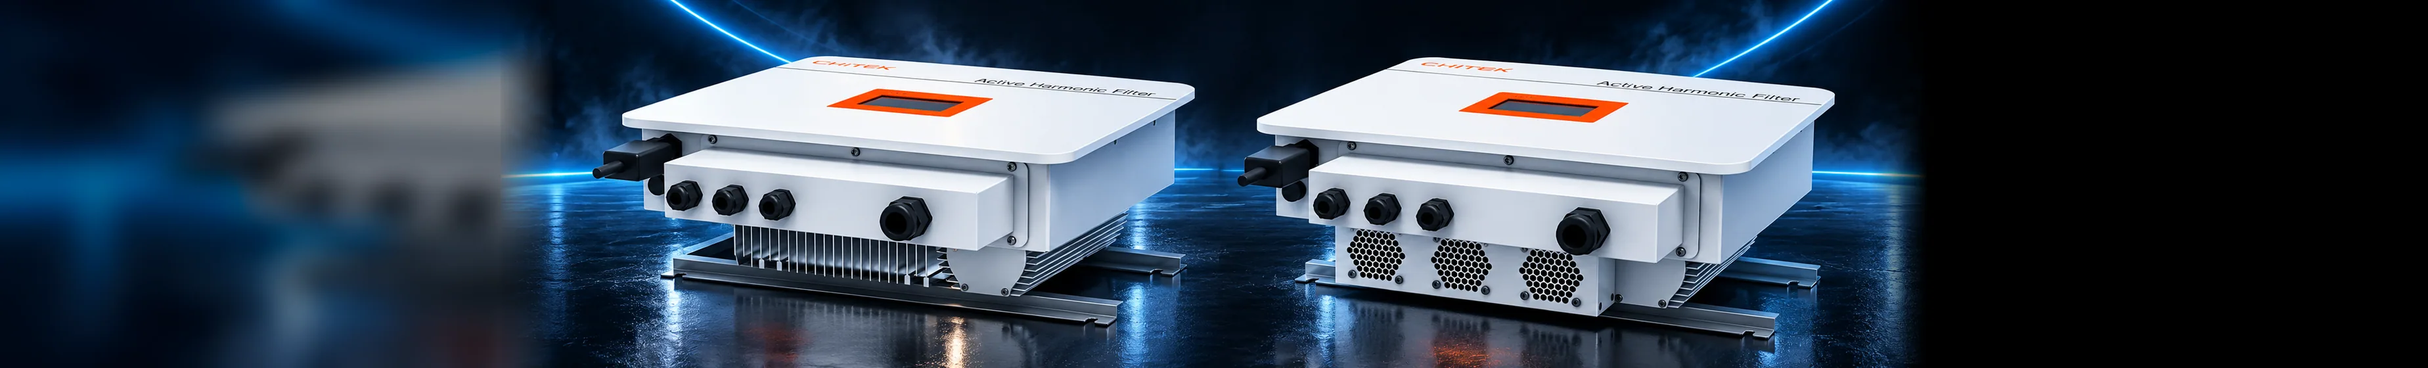
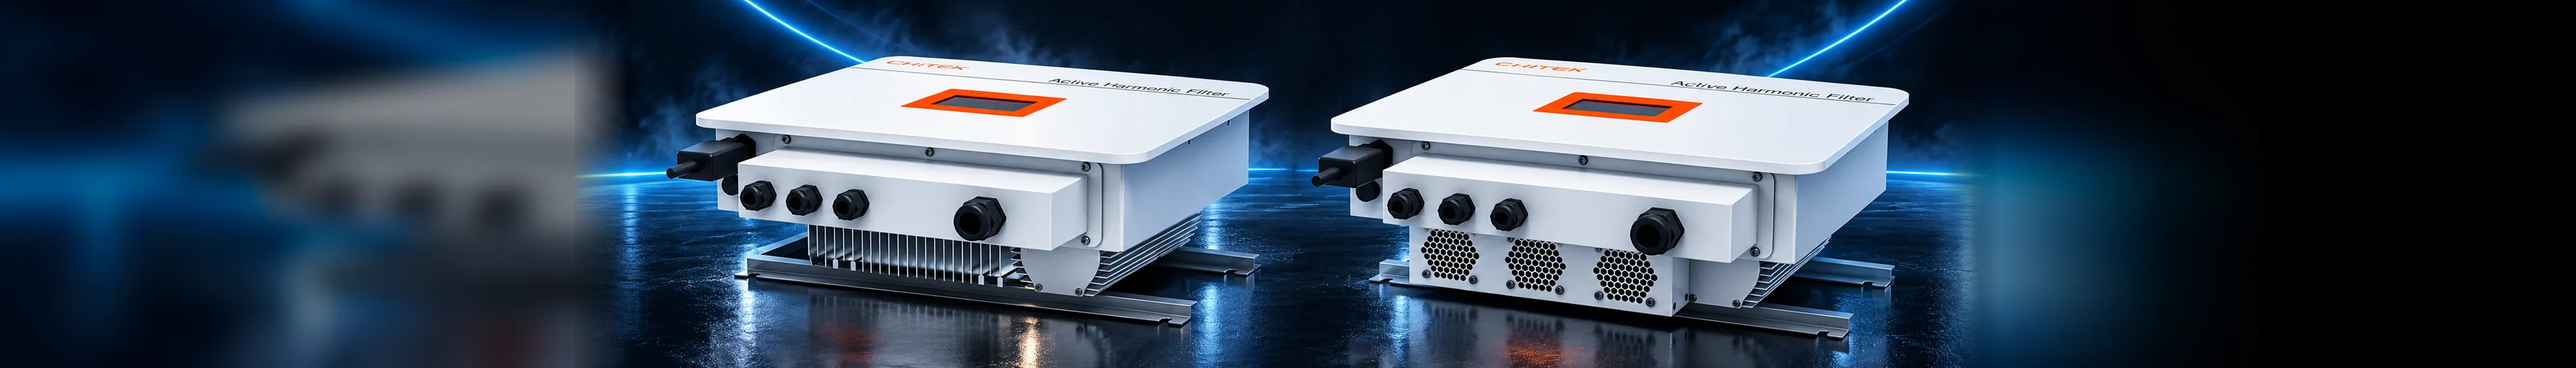
fix(hero): 第 4 帧右侧改成渐进黑，去掉了硬边
上一版右侧是「短羽化 + 纯黑」→ 照片结束处能看到一条竖线。
这版改成三段过渡：
1. 机器右缘之后接一段由照片最右 60px 拉伸模糊出的延续（地面反光），两端 alpha 羽化；
2. 叠一层缓入黑渐变，约 470px 内收成纯黑；
3. 画布比例 7:1（3920×560），给渐隐留出空间，纵向仍零裁切。

实测亮度剖面（画布 x, 灰度）：3020:89 → 3140:64 → 3260:25 → 3380:6 → 3500:0，
单调递减无台阶；页面最右列亮度 8/255。

diff --git a/_gen_hero_newlaunch.js b/_gen_hero_newlaunch.js
@@ -15,15 +15,18 @@ const SRC = 'D:/download/Futuristic CHITEK Active Filter Twin Units.png';
 const OUT = path.resolve(__dirname, 'public/assets/images');
 
 const CROP = { left: 0, top: 110, width: 2172, height: 560 }; // 机器 rows 196..574 → 上下各留 86 / 96
-const RATIO = 6.6;
+const RATIO = 7.0;
 
 (async () => {
   const base = await sharp(SRC).extract(CROP).toBuffer();          // 2172x560
   const W = Math.round(CROP.height * RATIO);                       // 3696
   const pad = Math.round((W - CROP.width) / 2);                    // 762
 
-  // 2026-10-30 用户要求：画布右侧「不够」的地方直接用纯黑，不要模糊铺底（模糊会把机器影子糊成一团）。
-  // 做法：底 = 纯黑；只在左侧（文字那一侧、被 scrim 压暗）铺一条模糊延续；右侧照片之外全黑。
+  // 2026-10-30 用户要求（两次迭代）：
+  //   ① 画布右侧「不够」的地方不要模糊铺底（同图模糊会把机器影子糊成一团）→ 改纯黑；
+  //   ② 纯黑不能是硬边 → 改成**渐进黑**：从机器右缘之后开始，一直渐隐到画布最右沿。
+  // 实现：底 = 纯黑；左侧（文字那侧、被 scrim 压暗）铺一条模糊延续；
+  //       右侧在合成完成后叠一层「透明 → 黑」的缓入渐变（起点压在机器右缘之后，绝不压到机器）。
   const feather = Math.round(CROP.width * 0.04);
   const leftStripW = Math.min(W, pad + feather + 8);
   const leftBlur = await sharp(base)
@@ -45,12 +48,55 @@ const RATIO = 6.6;
   const mask = await sharp(Buffer.from(maskSvg)).png().toBuffer();
   const fg = await sharp(base).ensureAlpha().composite([{ input: mask, blend: 'dest-in' }]).png().toBuffer();
 
+  // 右侧「渐进黑」三段式（2026-10-30 第二次迭代：用户要求不要硬边，要渐进过渡）：
+  //   ① 机器右缘之后先接一段由照片最右侧 60px 拉伸模糊出来的「延续」——它是地面反光的自然延伸；
+  //   ② 延续段两端都做 alpha 羽化（左接照片、右融进黑）；
+  //   ③ 最后再叠一层缓入的黑渐变，把最右侧彻底压到纯黑。
+  // 这样从机器 → 地面反光 → 渐暗 → 纯黑，中间没有任何一条硬边。
+  const machineRight = pad + 2128;                 // 机器右缘（画布坐标）
+  const contLeft = pad + CROP.width - 100;         // 延续段与照片重叠 100px
+  const contW = W - contLeft;
+  const contMaskSvg = `<svg width="${contW}" height="${CROP.height}" xmlns="http://www.w3.org/2000/svg">
+    <defs><linearGradient id="m" x1="0" y1="0" x2="1" y2="0">
+      <stop offset="0" stop-color="#fff" stop-opacity="0"/>
+      <stop offset="0.10" stop-color="#fff" stop-opacity="1"/>
+      <stop offset="0.72" stop-color="#fff" stop-opacity="1"/>
+      <stop offset="1" stop-color="#fff" stop-opacity="0"/>
+    </linearGradient></defs>
+    <rect width="${contW}" height="${CROP.height}" fill="url(#m)"/></svg>`;
+  const contMask = await sharp(Buffer.from(contMaskSvg)).png().toBuffer();
+  const cont = await sharp(base)
+    .extract({ left: CROP.width - 60, top: 0, width: 60, height: CROP.height })
+    .resize({ width: contW + 100, height: CROP.height, fit: 'fill' })
+    .blur(30)
+    .modulate({ brightness: 0.66, saturation: 0.9 })
+    .extract({ left: 100, top: 0, width: contW, height: CROP.height })
+    .ensureAlpha()
+    .composite([{ input: contMask, blend: 'dest-in' }])
+    .png()
+    .toBuffer();
+
+  // 缓入黑渐变：机器右缘起步，约 470px 内收成纯黑（够长不像硬边，够短不留一大片蓝雾）
+  const fadeKeys = [
+    [machineRight, 0], [machineRight + 50, 0.10], [machineRight + 120, 0.32],
+    [machineRight + 210, 0.58], [machineRight + 300, 0.82], [machineRight + 470, 1], [W, 1],
+  ];
+  const stops = fadeKeys
+    .map(([px, a]) => `<stop offset="${(px / W).toFixed(4)}" stop-color="#000" stop-opacity="${a}"/>`)
+    .join('');
+  const rightFadeSvg = `<svg width="${W}" height="${CROP.height}" xmlns="http://www.w3.org/2000/svg">
+    <defs><linearGradient id="f" x1="0" y1="0" x2="1" y2="0">${stops}</linearGradient></defs>
+    <rect width="${W}" height="${CROP.height}" fill="url(#f)"/></svg>`;
+  const rightFade = await sharp(Buffer.from(rightFadeSvg)).png().toBuffer();
+
   const master = await sharp({
     create: { width: W, height: CROP.height, channels: 3, background: { r: 0, g: 0, b: 0 } },
   })
     .composite([
       { input: leftBlur, left: 0, top: 0 },
       { input: fg, left: pad, top: 0 },
+      { input: cont, left: contLeft, top: 0 },   // 照片右缘的模糊延续（地面反光）
+      { input: rightFade, left: 0, top: 0 },     // 缓入黑渐变，收成纯黑
     ])
     .png()
     .toBuffer();
